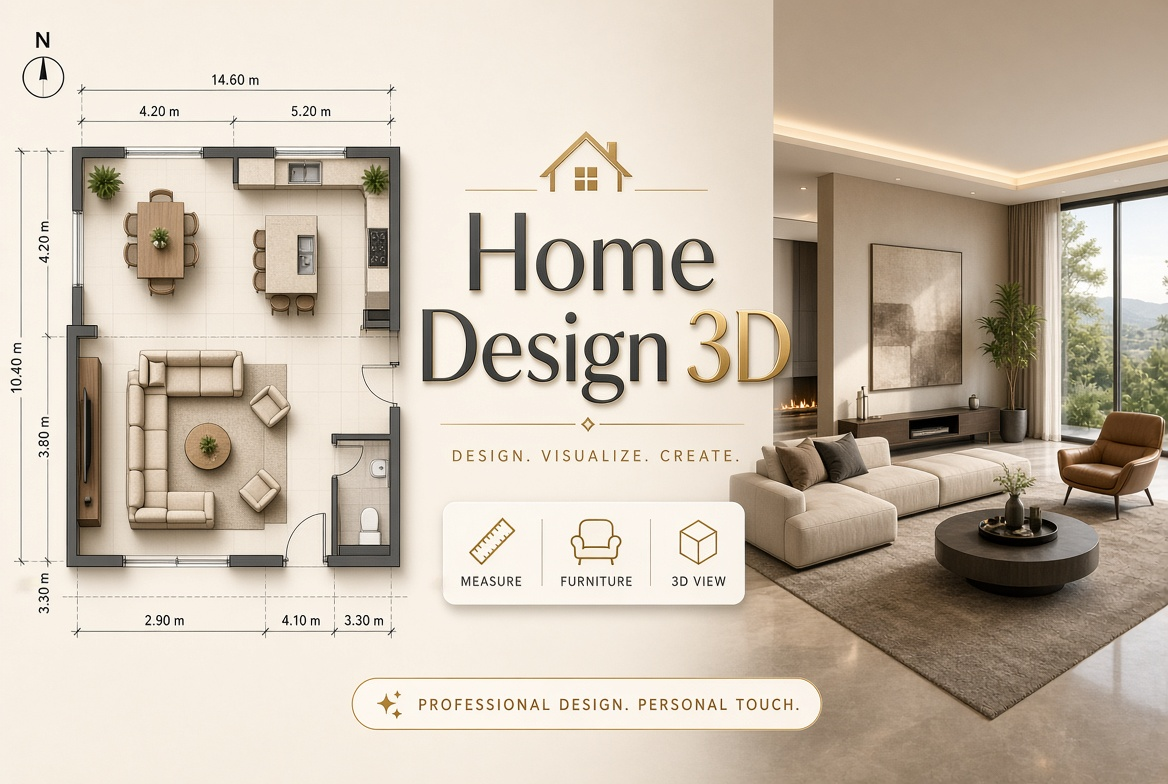
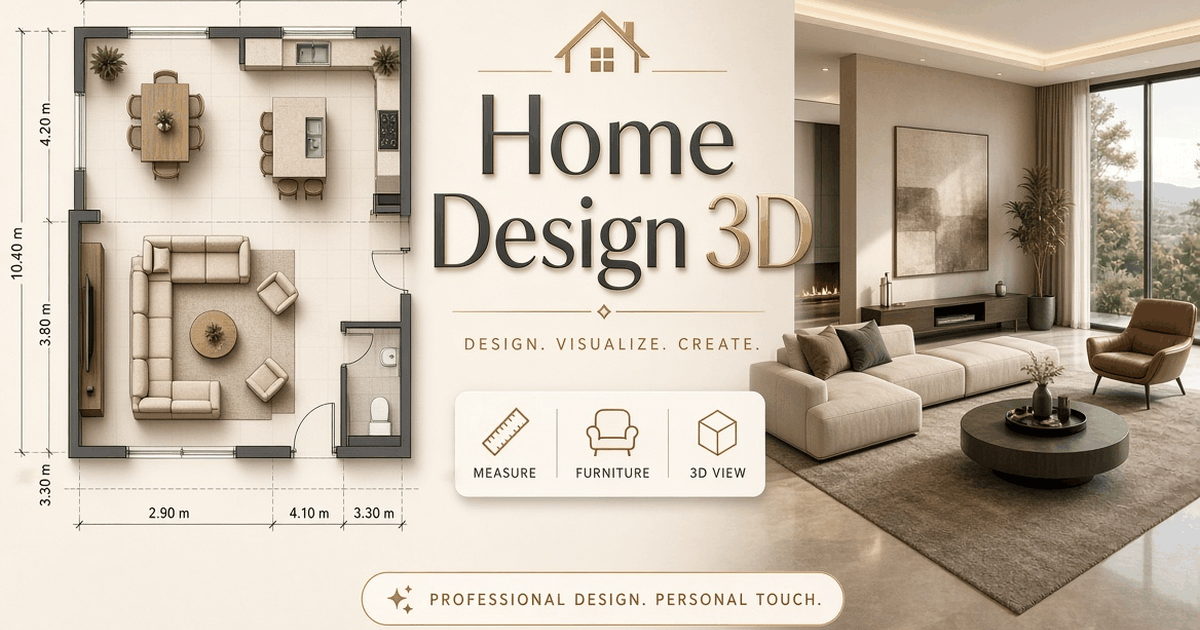
Add files via upload

diff --git a/index.html b/index.html
@@ -3,6 +3,7 @@
   <head>
     <meta charset="UTF-8" />
     <meta name="viewport" content="width=device-width, initial-scale=1" />
+    <meta name="google-site-verification" content="9ZHO-guhbhS_RWHdRXOWS6fDLPbIWQB_HFDQbS6noOo" />
 
     <!-- Primary SEO -->
     <title>My Home Design: diseña planos y viviendas en 2D y 3D online</title>
@@ -18,6 +19,8 @@
     <meta name="color-scheme" content="light" />
     <link rel="alternate" hreflang="es" href="%SITE_URL%/" />
     <link rel="alternate" hreflang="x-default" href="%SITE_URL%/" />
+    <link rel="author" href="https://aitorsanchez.pages.dev" />
+    <link rel="sitemap" type="application/xml" href="/sitemap.xml" />
 
     <!-- Icons & PWA -->
     <link rel="icon" href="/favicon.svg" type="image/svg+xml" />
@@ -35,11 +38,12 @@
       property="og:description"
       content="Dibuja tu vivienda en 2D, amuébala con medidas reales, elige colores y acabados y míralo en 3D. Sin registro."
     />
-    <meta property="og:image" content="%SITE_URL%/og-image.jpg" />
-    <meta property="og:image:type" content="image/jpeg" />
+    <meta property="og:image" content="%SITE_URL%/og-image.png" />
+    <meta property="og:image:secure_url" content="%SITE_URL%/og-image.png" />
+    <meta property="og:image:type" content="image/png" />
     <meta property="og:image:width" content="1200" />
     <meta property="og:image:height" content="630" />
-    <meta property="og:image:alt" content="My Home Design: plano 2D y vista 3D de una vivienda amueblada" />
+    <meta property="og:image:alt" content="Home Design 3D: plano 2D con cotas junto a un salón amueblado en 3D. Design, visualize, create." />
 
     <!-- Twitter / X -->
     <meta name="twitter:card" content="summary_large_image" />
@@ -48,8 +52,8 @@
       name="twitter:description"
       content="Dibuja tu vivienda en 2D, amuébala con medidas reales y míralo en 3D. Sin registro."
     />
-    <meta name="twitter:image" content="%SITE_URL%/og-image.jpg" />
-    <meta name="twitter:image:alt" content="My Home Design: plano 2D y vista 3D de una vivienda amueblada" />
+    <meta name="twitter:image" content="%SITE_URL%/og-image.png" />
+    <meta name="twitter:image:alt" content="Home Design 3D: plano 2D con cotas junto a un salón amueblado en 3D. Design, visualize, create." />
 
     <!-- Structured data -->
     <script type="application/ld+json">
@@ -61,34 +65,97 @@
             "@id": "%SITE_URL%/#website",
             "url": "%SITE_URL%/",
             "name": "My Home Design",
+            "alternateName": ["Home Design 3D", "Home Design 3D by Aitor Sánchez"],
             "description": "Editor online de planos y viviendas en 2D y 3D.",
             "inLanguage": "es",
-            "publisher": { "@id": "%SITE_URL%/#author" }
+            "publisher": { "@id": "%SITE_URL%/#author" },
+            "author": { "@id": "%SITE_URL%/#author" }
+          },
+          {
+            "@type": "WebPage",
+            "@id": "%SITE_URL%/#webpage",
+            "url": "%SITE_URL%/",
+            "name": "My Home Design: diseña planos y viviendas en 2D y 3D online",
+            "inLanguage": "es",
+            "isPartOf": { "@id": "%SITE_URL%/#website" },
+            "about": { "@id": "%SITE_URL%/#app" },
+            "primaryImageOfPage": { "@id": "%SITE_URL%/#image" },
+            "dateModified": "%BUILD_DATE%",
+            "author": { "@id": "%SITE_URL%/#author" }
+          },
+          {
+            "@type": "ImageObject",
+            "@id": "%SITE_URL%/#image",
+            "url": "%SITE_URL%/og-image.png",
+            "contentUrl": "%SITE_URL%/og-image.png",
+            "width": 1200,
+            "height": 630,
+            "encodingFormat": "image/png",
+            "caption": "Home Design 3D: plano 2D con cotas junto a un salón amueblado en 3D",
+            "creator": { "@id": "%SITE_URL%/#author" }
           },
           {
             "@type": "Person",
             "@id": "%SITE_URL%/#author",
             "name": "Aitor Sánchez Gutiérrez",
             "url": "https://aitorsanchez.pages.dev",
-            "sameAs": ["https://aitorsanchez.pages.dev", "https://aitorhub.vercel.app"]
+            "sameAs": ["https://aitorsanchez.pages.dev", "https://aitorhub.vercel.app"],
+            "contactPoint": {
+              "@type": "ContactPoint",
+              "contactType": "contacto",
+              "url": "https://aitorsanchez.pages.dev/contacto",
+              "availableLanguage": "es"
+            }
+          },
+          {
+            "@type": "Blog",
+            "@id": "https://aitorsanchez.pages.dev/#blog",
+            "url": "https://aitorsanchez.pages.dev",
+            "name": "Blog de Aitor Sánchez",
+            "inLanguage": "es",
+            "author": { "@id": "%SITE_URL%/#author" }
+          },
+          {
+            "@type": "WebSite",
+            "@id": "https://aitorhub.vercel.app/#website",
+            "url": "https://aitorhub.vercel.app",
+            "name": "Aitor Hub",
+            "inLanguage": "es",
+            "author": { "@id": "%SITE_URL%/#author" }
+          },
+          {
+            "@type": "ContactPage",
+            "@id": "https://aitorsanchez.pages.dev/contacto#contactpage",
+            "url": "https://aitorsanchez.pages.dev/contacto",
+            "name": "Contacto con Aitor Sánchez Gutiérrez",
+            "inLanguage": "es",
+            "about": { "@id": "%SITE_URL%/#author" }
           },
           {
             "@type": "WebApplication",
             "@id": "%SITE_URL%/#app",
             "name": "My Home Design",
+            "alternateName": "Home Design 3D",
             "url": "%SITE_URL%/",
             "description": "Diseña el plano de tu vivienda en 2D con medidas reales, amuébala, elige color y acabado de cada pieza y recórrela en 3D. Funciona en el navegador y no requiere registro.",
             "applicationCategory": "DesignApplication",
+            "applicationSubCategory": "Diseño de interiores y planos",
             "operatingSystem": "Cualquiera (navegador web moderno)",
             "browserRequirements": "Requiere JavaScript y WebGL",
             "inLanguage": "es",
             "isAccessibleForFree": true,
-            "offers": { "@type": "Offer", "price": "0", "priceCurrency": "EUR" },
-            "image": "%SITE_URL%/og-image.jpg",
+            "offers": { "@type": "Offer", "price": "0", "priceCurrency": "EUR", "availability": "https://schema.org/InStock" },
+            "image": { "@id": "%SITE_URL%/#image" },
+            "screenshot": "%SITE_URL%/og-image.png",
             "author": { "@id": "%SITE_URL%/#author" },
+            "creator": { "@id": "%SITE_URL%/#author" },
+            "publisher": { "@id": "%SITE_URL%/#author" },
             "copyrightHolder": { "@id": "%SITE_URL%/#author" },
             "copyrightYear": 2026,
             "dateModified": "%BUILD_DATE%",
+            "isPartOf": { "@id": "https://aitorhub.vercel.app/#website" },
+            "mainEntityOfPage": { "@id": "%SITE_URL%/#webpage" },
+            "subjectOf": { "@id": "%SITE_URL%/acerca-de/#page" },
             "featureList": [
               "Editor de planos 2D con cotas, medición y ajuste magnético",
               "Catálogo de 37 muebles con medidas reales y muebles paramétricos",
@@ -97,8 +164,7 @@
               "Vista 3D con secciones de muro y sombras",
               "Exportación a PNG, SVG, CSV, GLB y JSON",
               "Guardado automático en el propio navegador"
-            ],
-            "mainEntityOfPage": "%SITE_URL%/acerca-de/"
+            ]
           }
         ]
       }
@@ -114,6 +180,13 @@
       #seo-fallback a{color:#0369a1}
       #seo-fallback nav ul{display:flex;gap:1rem;flex-wrap:wrap;padding:0;list-style:none}
     </style>
+    <!-- Dashboard tracking (Aitor Hub) -->
+    <script
+      src="https://aitors-hub-dashboard.asanchezgu.workers.dev/tracker.js"
+      data-app="home-design-3d"
+      data-key="ak_ade0270961ea43ed8dd3521559bfd30e"
+      async
+    ></script>
   </head>
   <body>
     <div id="root">

diff --git a/acerca-de/index.html b/acerca-de/index.html
@@ -15,13 +15,15 @@
     <meta name="theme-color" content="#4f46e5" />
     <link rel="alternate" hreflang="es" href="%SITE_URL%/acerca-de/" />
     <link rel="alternate" hreflang="x-default" href="%SITE_URL%/acerca-de/" />
+    <link rel="author" href="https://aitorsanchez.pages.dev" />
+    <link rel="sitemap" type="application/xml" href="/sitemap.xml" />
 
     <link rel="icon" href="/favicon.svg" type="image/svg+xml" />
     <link rel="icon" href="/favicon-32.png" type="image/png" sizes="32x32" />
     <link rel="apple-touch-icon" href="/apple-touch-icon.png" />
     <link rel="manifest" href="/manifest.webmanifest" />
 
-    <meta property="og:type" content="article" />
+    <meta property="og:type" content="website" />
     <meta property="og:site_name" content="My Home Design" />
     <meta property="og:locale" content="es_ES" />
     <meta property="og:url" content="%SITE_URL%/acerca-de/" />
@@ -30,15 +32,17 @@
       property="og:description"
       content="Cómo funciona el editor de planos 2D y 3D My Home Design, con qué tecnología está hecho y quién lo ha creado."
     />
-    <meta property="og:image" content="%SITE_URL%/og-image.jpg" />
+    <meta property="og:image" content="%SITE_URL%/og-image.png" />
+    <meta property="og:image:secure_url" content="%SITE_URL%/og-image.png" />
+    <meta property="og:image:type" content="image/png" />
     <meta property="og:image:width" content="1200" />
     <meta property="og:image:height" content="630" />
-    <meta property="og:image:alt" content="My Home Design: plano 2D y vista 3D de una vivienda amueblada" />
-    <meta property="article:author" content="Aitor Sánchez Gutiérrez" />
+    <meta property="og:image:alt" content="Home Design 3D: plano 2D con cotas junto a un salón amueblado en 3D. Design, visualize, create." />
     <meta name="twitter:card" content="summary_large_image" />
     <meta name="twitter:title" content="Acerca de My Home Design" />
     <meta name="twitter:description" content="Funcionamiento, stack tecnológico y datos de contacto del autor." />
-    <meta name="twitter:image" content="%SITE_URL%/og-image.jpg" />
+    <meta name="twitter:image" content="%SITE_URL%/og-image.png" />
+    <meta name="twitter:image:alt" content="Home Design 3D: plano 2D con cotas junto a un salón amueblado en 3D. Design, visualize, create." />
 
     <script type="application/ld+json">
       {
@@ -52,11 +56,44 @@
             "description": "Funcionamiento, stack tecnológico y datos de contacto del autor de My Home Design.",
             "inLanguage": "es",
             "dateModified": "%BUILD_DATE%",
-            "isPartOf": { "@type": "WebSite", "name": "My Home Design", "url": "%SITE_URL%/" },
-            "about": { "@type": "WebApplication", "name": "My Home Design", "url": "%SITE_URL%/" },
+            "isPartOf": { "@id": "%SITE_URL%/#website" },
+            "about": { "@id": "%SITE_URL%/#app" },
+            "primaryImageOfPage": { "@id": "%SITE_URL%/#image" },
             "author": { "@id": "%SITE_URL%/#author" },
             "breadcrumb": { "@id": "%SITE_URL%/acerca-de/#breadcrumb" },
             "mainEntity": { "@id": "%SITE_URL%/acerca-de/#faq" }
+          },
+          {
+            "@type": "WebSite",
+            "@id": "%SITE_URL%/#website",
+            "url": "%SITE_URL%/",
+            "name": "My Home Design",
+            "alternateName": ["Home Design 3D", "Home Design 3D by Aitor Sánchez"],
+            "inLanguage": "es",
+            "publisher": { "@id": "%SITE_URL%/#author" }
+          },
+          {
+            "@type": "WebApplication",
+            "@id": "%SITE_URL%/#app",
+            "name": "My Home Design",
+            "alternateName": "Home Design 3D",
+            "url": "%SITE_URL%/",
+            "applicationCategory": "DesignApplication",
+            "operatingSystem": "Cualquiera (navegador web moderno)",
+            "isAccessibleForFree": true,
+            "author": { "@id": "%SITE_URL%/#author" },
+            "isPartOf": { "@id": "https://aitorhub.vercel.app/#website" }
+          },
+          {
+            "@type": "ImageObject",
+            "@id": "%SITE_URL%/#image",
+            "url": "%SITE_URL%/og-image.png",
+            "contentUrl": "%SITE_URL%/og-image.png",
+            "width": 1200,
+            "height": 630,
+            "encodingFormat": "image/png",
+            "caption": "Home Design 3D: plano 2D con cotas junto a un salón amueblado en 3D",
+            "creator": { "@id": "%SITE_URL%/#author" }
           },
           {
             "@type": "BreadcrumbList",
@@ -78,6 +115,30 @@
               "url": "https://aitorsanchez.pages.dev/contacto",
               "availableLanguage": "es"
             }
+          },
+          {
+            "@type": "Blog",
+            "@id": "https://aitorsanchez.pages.dev/#blog",
+            "url": "https://aitorsanchez.pages.dev",
+            "name": "Blog de Aitor Sánchez",
+            "inLanguage": "es",
+            "author": { "@id": "%SITE_URL%/#author" }
+          },
+          {
+            "@type": "WebSite",
+            "@id": "https://aitorhub.vercel.app/#website",
+            "url": "https://aitorhub.vercel.app",
+            "name": "Aitor Hub",
+            "inLanguage": "es",
+            "author": { "@id": "%SITE_URL%/#author" }
+          },
+          {
+            "@type": "ContactPage",
+            "@id": "https://aitorsanchez.pages.dev/contacto#contactpage",
+            "url": "https://aitorsanchez.pages.dev/contacto",
+            "name": "Contacto con Aitor Sánchez Gutiérrez",
+            "inLanguage": "es",
+            "about": { "@id": "%SITE_URL%/#author" }
           },
           {
             "@type": "FAQPage",
@@ -115,6 +176,14 @@
     </script>
 
     <link rel="stylesheet" href="/src/index.css" />
+
+    <!-- Dashboard tracking (Aitor Hub) -->
+    <script
+      src="https://aitors-hub-dashboard.asanchezgu.workers.dev/tracker.js"
+      data-app="home-design-3d"
+      data-key="ak_ade0270961ea43ed8dd3521559bfd30e"
+      async
+    ></script>
   </head>
 
   <body class="bg-slate-50 text-slate-800 antialiased">
@@ -159,6 +228,21 @@
         <p class="mt-4">
           <a href="/" class="inline-block bg-sky-700 hover:bg-sky-800 text-white font-semibold px-5 py-2.5 rounded-lg">Empezar a diseñar</a>
         </p>
+
+        <figure class="mt-8">
+          <img
+            src="/og-image.png"
+            alt="Home Design 3D: plano 2D con cotas junto a un salón amueblado en 3D. Design, visualize, create."
+            width="1200"
+            height="630"
+            fetchpriority="high"
+            decoding="async"
+            class="block w-full h-auto max-w-full rounded-2xl border border-slate-200 shadow-md"
+          />
+          <figcaption class="mt-2 text-sm text-slate-600">
+            Del plano 2D con medidas reales a la vista 3D del hogar amueblado.
+          </figcaption>
+        </figure>
       </section>
 
       <section id="funcionamiento" aria-labelledby="h-funcionamiento" class="scroll-mt-6">

diff --git a/vite.seo.ts b/vite.seo.ts
@@ -17,7 +17,10 @@ const PAGES: Array<{ path: string; changefreq: string; priority: string }> = [
   { path: '/acerca-de/', changefreq: 'monthly', priority: '0.7' },
 ];
 
-const DEFAULT_SITE_URL = 'https://my-home-design.pages.dev';
+const DEFAULT_SITE_URL = 'https://home-design-3d.kbo1.workers.dev';
+
+/** Social / structured-data image (1200×630 PNG in /public), listed in the sitemap for both pages. */
+const SITEMAP_IMAGE = '/og-image.png';
 
 type PackageJson = { version?: string; dependencies?: Record<string, string>; devDependencies?: Record<string, string> };
 
@@ -53,13 +56,13 @@ export function seoPlugin(): Plugin {
     generateBundle() {
       const urls = PAGES.map(
         (p) =>
-          `  <url>\n    <loc>${siteUrl}${p.path}</loc>\n    <lastmod>${buildDate}</lastmod>\n    <changefreq>${p.changefreq}</changefreq>\n    <priority>${p.priority}</priority>\n  </url>`
+          `  <url>\n    <loc>${siteUrl}${p.path}</loc>\n    <lastmod>${buildDate}</lastmod>\n    <changefreq>${p.changefreq}</changefreq>\n    <priority>${p.priority}</priority>\n    <image:image>\n      <image:loc>${siteUrl}${SITEMAP_IMAGE}</image:loc>\n    </image:image>\n  </url>`
       ).join('\n');
 
       this.emitFile({
         type: 'asset',
         fileName: 'sitemap.xml',
-        source: `<?xml version="1.0" encoding="UTF-8"?>\n<urlset xmlns="http://www.sitemaps.org/schemas/sitemap/0.9">\n${urls}\n</urlset>\n`,
+        source: `<?xml version="1.0" encoding="UTF-8"?>\n<urlset xmlns="http://www.sitemaps.org/schemas/sitemap/0.9" xmlns:image="http://www.google.com/schemas/sitemap-image/1.1">\n${urls}\n</urlset>\n`,
       });
       this.emitFile({
         type: 'asset',

diff --git a/README.md b/README.md
@@ -136,7 +136,7 @@ src/
 
 - **Footer** en la aplicación (`src/components/Footer.tsx`, datos en `src/site.ts`): Acerca de, blog, Aitor Hub, contacto y copyright.
 - **Página «Acerca de»** (`acerca-de/index.html`): HTML estático y rastreable con funcionamiento, stack tecnológico (versiones reales leídas de `node_modules` en cada build), atajos, autor, contacto y FAQ.
-- **SEO técnico**: `title`/`description` por página, canonical, `hreflang`, Open Graph y Twitter Cards (`public/og-image.jpg`), datos estructurados JSON-LD (WebSite, WebApplication, Person, AboutPage, BreadcrumbList, FAQPage), contenido de respaldo para rastreadores sin JavaScript, `manifest.webmanifest` e iconos (incluido *maskable*), `404.html` con `noindex`, `sitemap.xml` y `robots.txt` generados en cada build.
+- **SEO técnico**: `title`/`description` por página, canonical, `hreflang`, Open Graph y Twitter Cards (`public/og-image.png`, 1200×630), datos estructurados JSON-LD (WebSite, WebApplication, Person, AboutPage, BreadcrumbList, FAQPage), contenido de respaldo para rastreadores sin JavaScript, `manifest.webmanifest` e iconos (incluido *maskable*), `404.html` con `noindex`, `sitemap.xml` y `robots.txt` generados en cada build.
 - **Rendimiento**: la vista 3D (Three.js), la exportación y el diseñador paramétrico se cargan bajo demanda.
 - **Seguridad y caché** (`public/_headers`, formato Cloudflare Pages/Netlify): CSP estricta, `nosniff`, `Referrer-Policy`, `Permissions-Policy` y caché inmutable para `/assets/*`.
 
@@ -146,7 +146,7 @@ src/
 SITE_URL=https://tu-dominio.com npm run build
 ```
 
-(En Cloudflare Pages: *Settings → Environment variables → `SITE_URL`.* Si no se define, se usa `https://my-home-design.pages.dev`, que casi seguro no es la tuya.)
+(En Cloudflare Pages: *Settings → Environment variables → `SITE_URL`.* Si no se define, se usa `https://home-design-3d.kbo1.workers.dev`.)
 
 Medido con Lighthouse sobre el build servido con esas cabeceras: **Rendimiento 100 · Accesibilidad 100 · Buenas prácticas 100 · SEO 100** (aplicación y página «Acerca de»).
 
